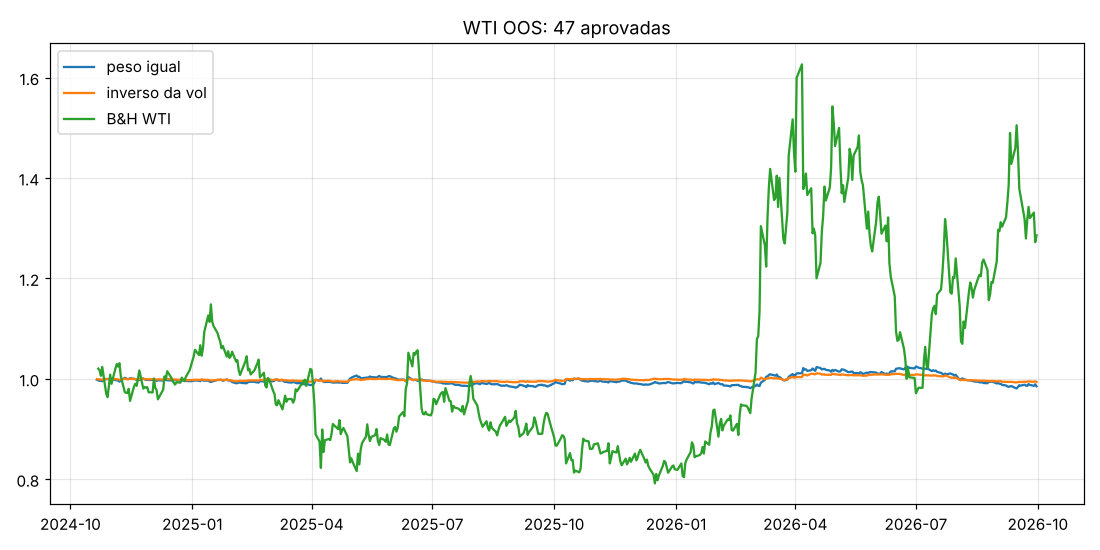
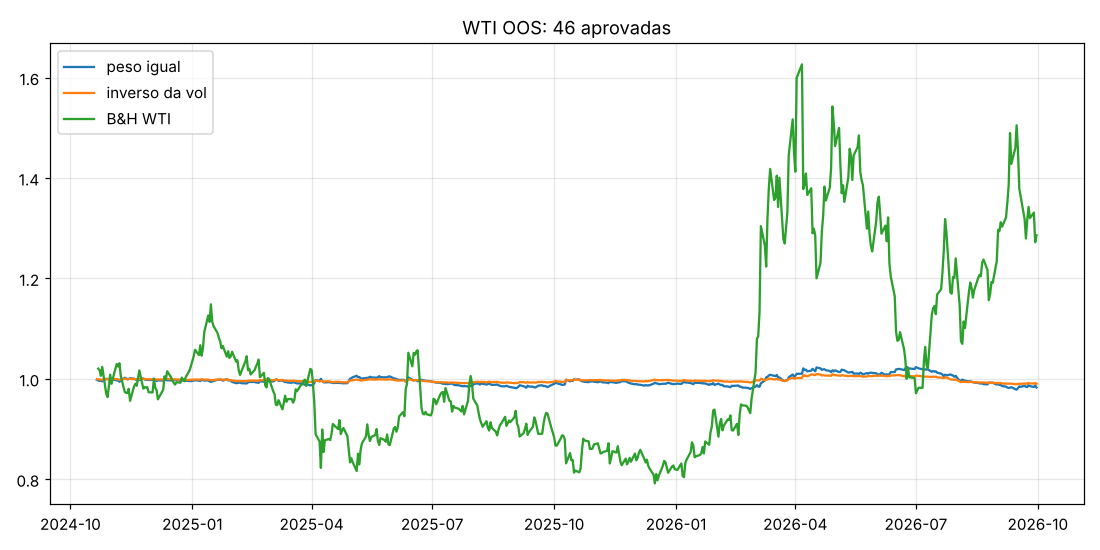
WTI 8 partes: tira o template Strategy Code Example da carteira
Claude-Session: https://claude.ai/code/session_015VeN5B6my1kWAGPRidR1yN

Changed region(s): [[0.1545, 0.6491, 0.9582, 0.7109], [0.4018, 0.0309, 0.6182, 0.0618]]

diff --git a/scripts/oos_np.py b/scripts/oos_np.py
@@ -6,7 +6,9 @@ import numpy as np, pandas as pd
 import matplotlib; matplotlib.use('Agg'); import matplotlib.pyplot as plt
 D = os.path.dirname(os.path.dirname(os.path.abspath(__file__))); sys.path.insert(0, os.path.join(D, 'scripts')); import tvlib as T
 A = os.environ.get('ATIVO', 'wti'); R = os.path.join(D, 'results', A + '_4p' + os.environ.get('SUF', '_8p_full'))
-a = pd.read_csv(os.path.join(R, 'aprovadas.csv')); G, S, cols = {}, {}, {}
+a = pd.read_csv(os.path.join(R, 'aprovadas.csv'))
+a = a[~a.nome.fillna('').str.contains('Example|Template', case=False)].reset_index(drop=True)   # exemplos/templates nao contam
+G, S, cols = {}, {}, {}
 for _, r in a.iterrows():
     l = str(r.lote)
     if l not in G:
